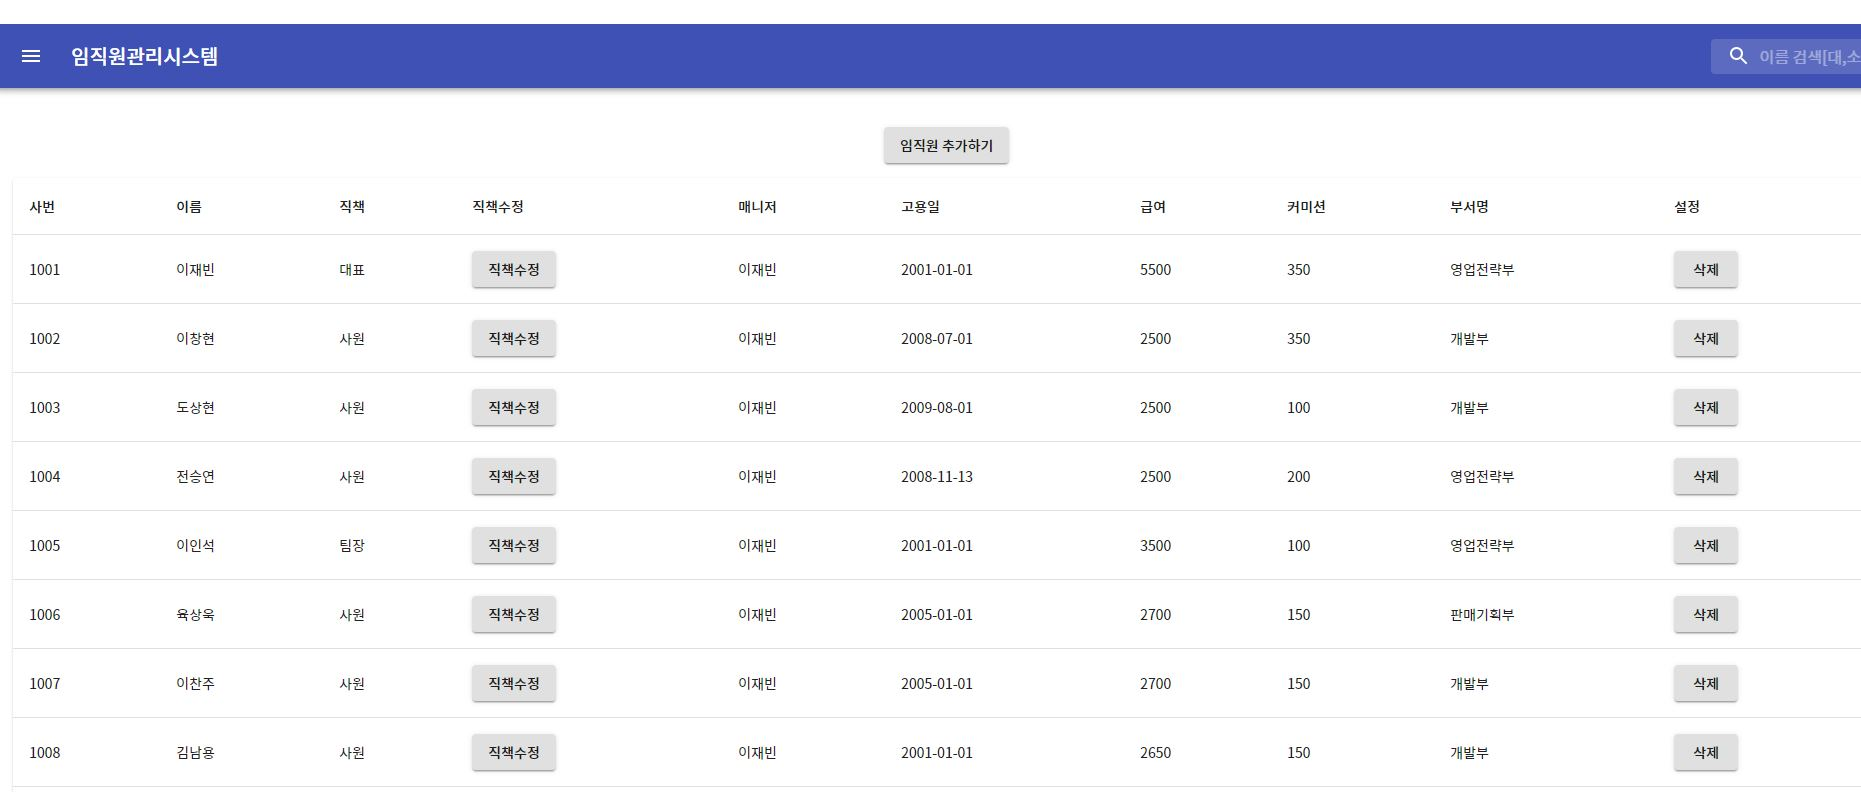
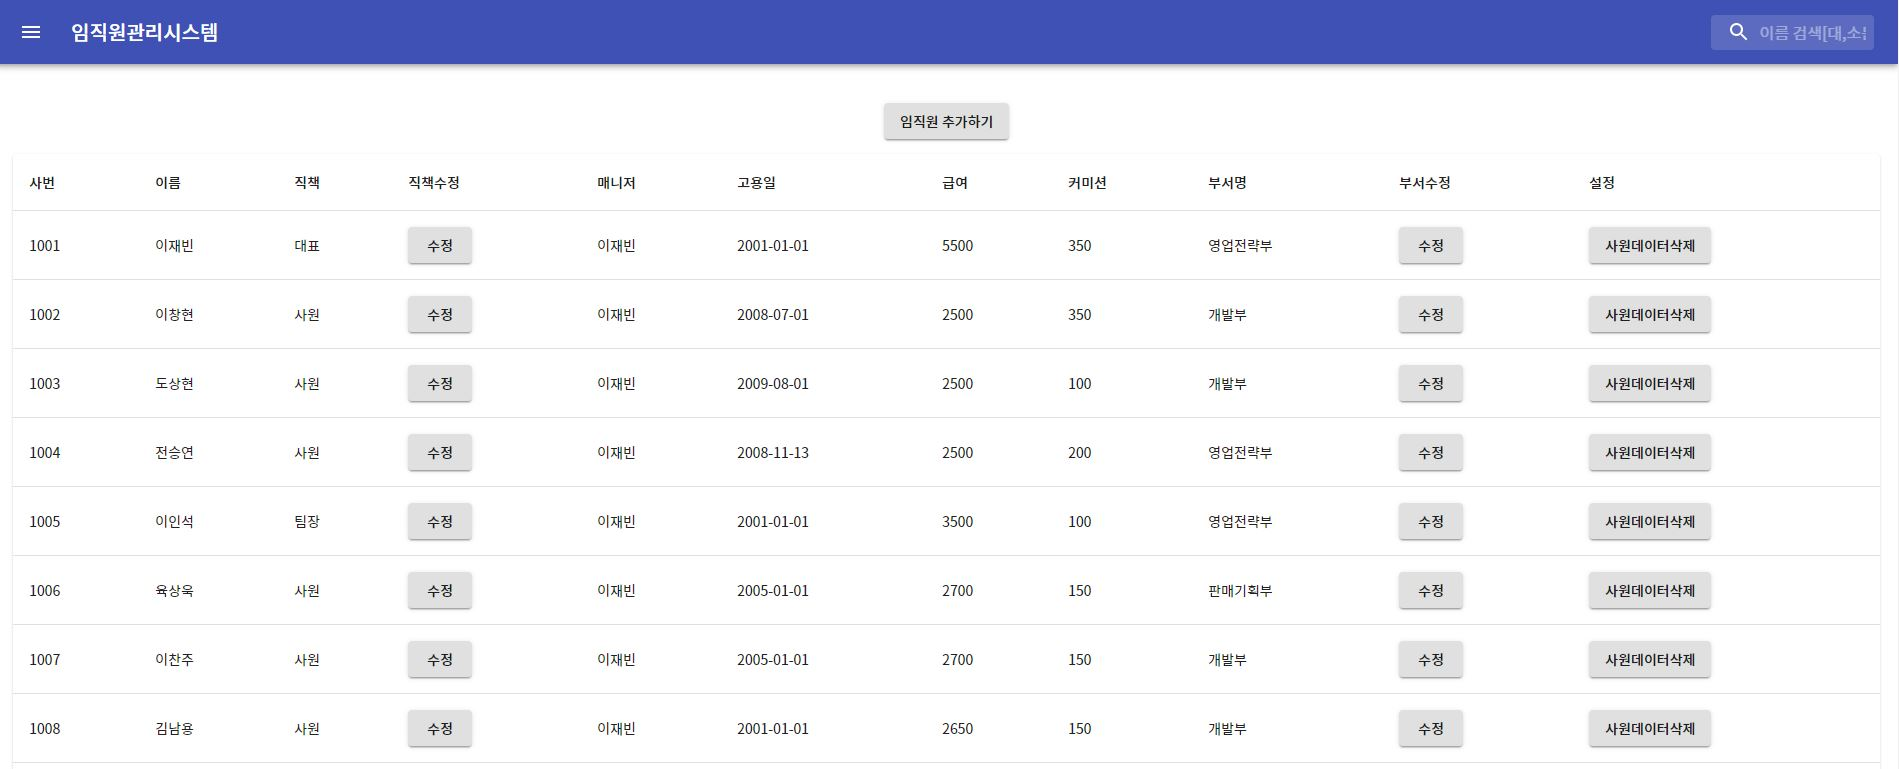
added:0601

diff --git a/client/src/components/EmployeeJobModify.js b/client/src/components/EmployeeJobModify.js
@@ -65,10 +65,10 @@ class EmployeeJobModify extends React.Component{
         return(
             <div>                
                 <Button variant = "contained" color="priomary" onClick={this.handleClickOpen}>
-                    직책수정
+                    수정
                 </Button>
                 <Dialog open={this.state.open} onClose={this.handleClose}>
-                    <DialogTitle>수정</DialogTitle>
+                    <DialogTitle>직책수정</DialogTitle>
                     <DialogContent>
                     <br/>
                    <TextField label = "변경 직책입력" type = "text" name = "job" value = {this.state.job} onChange = {this.handleValueChange}/>
